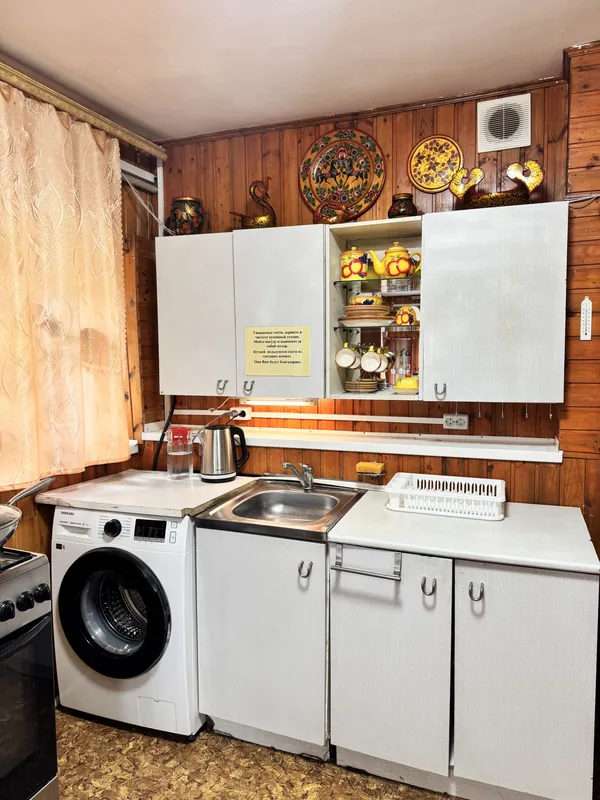
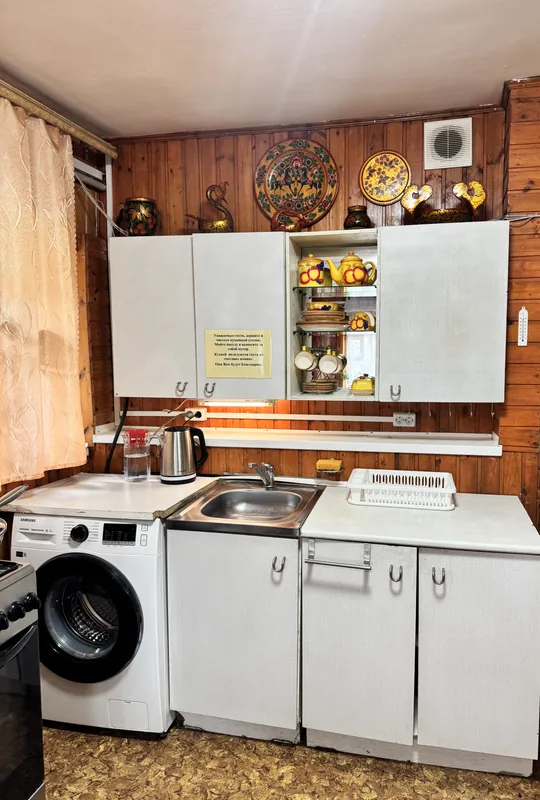
Правило отбора фото и первые правки по нему
В FOTO-SPISOK.md записано, как отбирать кадры: снимки должны выглядеть
как в объявлениях о недвижимости, а не как протокол осмотра. Разные
ракурсы, свет, самый выигрышный кадр обложкой; в кадр не лезут вёдра,
швабры, провода и таблички с правилами; неудачный угол обрезается.
Отдельно оговорено, чего не делаем: чужие интерьеры за свои не выдаём и
не скрываем того, что гость найдёт на месте.

По этому правилу:

- туалет в санузле №1 обрезан слева — ушли мусорное ведро и ёршик,
  остались унитаз, штора и плитка;
- кадр кухонной стенки заменён на более выигрышный: открытый шкаф с
  посудой и хохломские тарелки на стене, тёмный дверной проём обрезан.

Переписаны два блока, которые отговаривали гостя ехать. На странице
отзывов «мебель разного возраста, где-то видны следы эксплуатации»
заменено на то, что дом действительно даёт: место, тепло, кухню, баню и
честную цену. На странице для бригад — то же самое.

Claude-Session: https://claude.ai/code/session_0118jBCqfFCDQ8oS7aEggjZR

diff --git a/dom-1.html b/dom-1.html
@@ -155,7 +155,7 @@
       <div class="room-photos" id="d1-kuhnya-1" hidden>
         <div class="ph"><img src="assets/img/foto/dom-1/dom-1-kuhnya-1-1-800.webp" srcset="assets/img/foto/dom-1/dom-1-kuhnya-1-1-400.webp 400w, assets/img/foto/dom-1/dom-1-kuhnya-1-1-800.webp 800w, assets/img/foto/dom-1/dom-1-kuhnya-1-1-1600.webp 1600w" sizes="(max-width: 430px) 92vw, (max-width: 760px) 45vw, (max-width: 1200px) 30vw, 370px" width="5712" height="4284" alt="Дом №1 — гостиная-столовая с телевизором" loading="lazy" decoding="async"></div>
         <div class="ph"><img src="assets/img/foto/dom-1/dom-1-kuhnya-1-2-800.webp" srcset="assets/img/foto/dom-1/dom-1-kuhnya-1-2-400.webp 400w, assets/img/foto/dom-1/dom-1-kuhnya-1-2-800.webp 800w, assets/img/foto/dom-1/dom-1-kuhnya-1-2-1600.webp 1600w" sizes="(max-width: 430px) 92vw, (max-width: 760px) 45vw, (max-width: 1200px) 30vw, 370px" width="4284" height="5712" alt="Дом №1, первый этаж — обеденная зона с двумя круглыми столами" loading="lazy" decoding="async"></div>
-        <div class="ph"><img src="assets/img/foto/dom-1/dom-1-kuhnya-1-3-800.webp" srcset="assets/img/foto/dom-1/dom-1-kuhnya-1-3-400.webp 400w, assets/img/foto/dom-1/dom-1-kuhnya-1-3-800.webp 800w, assets/img/foto/dom-1/dom-1-kuhnya-1-3-1600.webp 1600w" sizes="(max-width: 430px) 92vw, (max-width: 760px) 45vw, (max-width: 1200px) 30vw, 370px" width="4284" height="5712" alt="Дом №1, кухня на первом этаже — мойка, шкафы с посудой и стиральная машина" loading="lazy" decoding="async"></div>
+        <div class="ph"><img src="assets/img/foto/dom-1/dom-1-kuhnya-1-3-800.webp" srcset="assets/img/foto/dom-1/dom-1-kuhnya-1-3-400.webp 400w, assets/img/foto/dom-1/dom-1-kuhnya-1-3-800.webp 800w, assets/img/foto/dom-1/dom-1-kuhnya-1-3-1600.webp 1600w" sizes="(max-width: 430px) 92vw, (max-width: 760px) 45vw, (max-width: 1200px) 30vw, 370px" width="3855" height="5712" alt="Дом №1, кухня на первом этаже — мойка, шкафы с посудой и стиральная машина" loading="lazy" decoding="async"></div>
         <div class="ph"><img src="assets/img/foto/dom-1/dom-1-kuhnya-1-4-800.webp" srcset="assets/img/foto/dom-1/dom-1-kuhnya-1-4-400.webp 400w, assets/img/foto/dom-1/dom-1-kuhnya-1-4-800.webp 800w, assets/img/foto/dom-1/dom-1-kuhnya-1-4-1600.webp 1600w" sizes="(max-width: 430px) 92vw, (max-width: 760px) 45vw, (max-width: 1200px) 30vw, 370px" width="4284" height="5712" alt="Дом №1, кухня на первом этаже — плита и стиральная машина" loading="lazy" decoding="async"></div>
         <div class="ph"><img src="assets/img/foto/dom-1/dom-1-kuhnya-1-5-800.webp" srcset="assets/img/foto/dom-1/dom-1-kuhnya-1-5-400.webp 400w, assets/img/foto/dom-1/dom-1-kuhnya-1-5-800.webp 800w, assets/img/foto/dom-1/dom-1-kuhnya-1-5-1600.webp 1600w" sizes="(max-width: 430px) 92vw, (max-width: 760px) 45vw, (max-width: 1200px) 30vw, 370px" width="4284" height="5712" alt="Дом №1, кухня на первом этаже — холодильник, микроволновка и мини-печь" loading="lazy" decoding="async"></div>
         <div class="ph"><img src="assets/img/foto/dom-1/dom-1-kuhnya-1-6-800.webp" srcset="assets/img/foto/dom-1/dom-1-kuhnya-1-6-400.webp 400w, assets/img/foto/dom-1/dom-1-kuhnya-1-6-800.webp 800w, assets/img/foto/dom-1/dom-1-kuhnya-1-6-1600.webp 1600w" sizes="(max-width: 430px) 92vw, (max-width: 760px) 45vw, (max-width: 1200px) 30vw, 370px" width="4284" height="5712" alt="Дом №1, кухня на первом этаже — кухонная утварь и сушилка для посуды" loading="lazy" decoding="async"></div>
@@ -164,7 +164,7 @@
         <div class="ph"><img src="assets/img/foto/dom-1/dom-1-tualet-1-1-800.webp" srcset="assets/img/foto/dom-1/dom-1-tualet-1-1-400.webp 400w, assets/img/foto/dom-1/dom-1-tualet-1-1-800.webp 800w, assets/img/foto/dom-1/dom-1-tualet-1-1-1600.webp 1600w" sizes="(max-width: 430px) 92vw, (max-width: 760px) 45vw, (max-width: 1200px) 30vw, 370px" width="4284" height="5712" alt="Дом №1, санузел №1 — две раковины и зеркала" loading="lazy" decoding="async"></div>
         <div class="ph"><img src="assets/img/foto/dom-1/dom-1-tualet-1-2-800.webp" srcset="assets/img/foto/dom-1/dom-1-tualet-1-2-400.webp 400w, assets/img/foto/dom-1/dom-1-tualet-1-2-800.webp 800w, assets/img/foto/dom-1/dom-1-tualet-1-2-1600.webp 1600w" sizes="(max-width: 430px) 92vw, (max-width: 760px) 45vw, (max-width: 1200px) 30vw, 370px" width="4284" height="5712" alt="Дом №1, санузел №1 — душевая" loading="lazy" decoding="async"></div>
         <div class="ph"><img src="assets/img/foto/dom-1/dom-1-tualet-1-3-800.webp" srcset="assets/img/foto/dom-1/dom-1-tualet-1-3-400.webp 400w, assets/img/foto/dom-1/dom-1-tualet-1-3-800.webp 800w, assets/img/foto/dom-1/dom-1-tualet-1-3-1600.webp 1600w" sizes="(max-width: 430px) 92vw, (max-width: 760px) 45vw, (max-width: 1200px) 30vw, 370px" width="4284" height="5712" alt="Дом №1, санузел №1 — умывальник у туалета" loading="lazy" decoding="async"></div>
-        <div class="ph"><img src="assets/img/foto/dom-1/dom-1-tualet-1-4-800.webp" srcset="assets/img/foto/dom-1/dom-1-tualet-1-4-400.webp 400w, assets/img/foto/dom-1/dom-1-tualet-1-4-800.webp 800w, assets/img/foto/dom-1/dom-1-tualet-1-4-1600.webp 1600w" sizes="(max-width: 430px) 92vw, (max-width: 760px) 45vw, (max-width: 1200px) 30vw, 370px" width="4284" height="5712" alt="Дом №1, санузел №1 — туалет за дверью" loading="lazy" decoding="async"></div>
+        <div class="ph"><img src="assets/img/foto/dom-1/dom-1-tualet-1-4-800.webp" srcset="assets/img/foto/dom-1/dom-1-tualet-1-4-400.webp 400w, assets/img/foto/dom-1/dom-1-tualet-1-4-800.webp 800w, assets/img/foto/dom-1/dom-1-tualet-1-4-1600.webp 1600w" sizes="(max-width: 430px) 92vw, (max-width: 760px) 45vw, (max-width: 1200px) 30vw, 370px" width="3342" height="5712" alt="Дом №1, санузел №1 — туалет за дверью" loading="lazy" decoding="async"></div>
       </div>
       <div class="room-photos" id="d1-zal" hidden>
         <div class="ph"><img src="assets/img/foto/dom-1/dom-1-kuhnya-2-3-800.webp" srcset="assets/img/foto/dom-1/dom-1-kuhnya-2-3-400.webp 400w, assets/img/foto/dom-1/dom-1-kuhnya-2-3-800.webp 800w, assets/img/foto/dom-1/dom-1-kuhnya-2-3-1600.webp 1600w" sizes="(max-width: 430px) 92vw, (max-width: 760px) 45vw, (max-width: 1200px) 30vw, 370px" width="5712" height="4284" alt="Дом №1, второй этаж — общий зал со столом на большую компанию" loading="lazy" decoding="async"></div>

diff --git a/komandirovochnym.html b/komandirovochnym.html
@@ -102,8 +102,8 @@
     </section>
 
     <div class="honest-block">
-      <h2>Честно</h2>
-      <p>Это не гостиница: дома домашние, мебель разного возраста и не в едином стиле, где-то видны следы эксплуатации. Зато есть всё для нормальной жизни бригады — кухни, душевые, стиральные машины, тепло, интернет и парковка, и цена за это честная.</p>
+      <h2>Что это за жильё</h2>
+      <p>Не гостиница и не общежитие: обычные жилые дома с домашней обстановкой. Своя кухня, где готовят когда удобно, душ без очереди, стиральные машины, тепло зимой и место, где бригада живёт неделями и не мешает друг другу. Для длительного проживания цена ниже — считаем по количеству мест и сроку.</p>
     </div>
   </div>
 

diff --git a/otzyvy.html b/otzyvy.html
@@ -89,8 +89,8 @@
     </section>
 
     <div class="honest-block">
-      <h2>Честно о том, чего ждать</h2>
-      <p>Дома домашние, а не отельные: мебель разного возраста и не в едином стиле, где-то видны следы эксплуатации, что-то мы постепенно обновляем. Зато здесь просторно, тепло, есть всё для жизни и честная цена. Мы специально пишем об этом заранее, чтобы никто не приехал с завышенными ожиданиями.</p>
+      <h2>Чего ждать</h2>
+      <p>Это домашние дома, а не отель: просторно, тепло, всё для жизни есть, а обстановка простая и уютная. Мы не обещаем дизайнерского ремонта — мы даём много места, свою кухню, баню и честную цену. Гости чаще всего отмечают именно это.</p>
     </div>
   </div>
 </main>

diff --git a/FOTO-SPISOK.md b/FOTO-SPISOK.md
@@ -21,6 +21,34 @@
 
 ---
 
+## Как отбираются фото
+
+Правило владельца, ему следовать при каждом отборе.
+
+Фотографии должны выглядеть так, как в объявлениях о недвижимости: не
+протокол осмотра, а картинка, которая цепляет. Так делают все — от
+частника до крупной сети. Некрасивой правдой гостя не привлечь: он
+просто пролистает дальше и уедет к соседям.
+
+При этом снимки **наши и настоящие** — те же комнаты, та же мебель,
+ничего не дорисовано. Работаем только отбором и кадром:
+
+- из нескольких кадров берём самый выигрышный, а не «первый попавшийся»;
+- **разные ракурсы**: от двери, от изголовья, стена напротив. Три разных
+  вида работают лучше, чем семь одинаковых;
+- ищем свет: окно в кадре, включённая люстра, светлое время суток;
+- в кадр не должны лезть ведро, швабра, провода, сушилка с бельём,
+  жёлтые таблички с правилами, личные вещи;
+- неудачный угол обрезаем: лучше показать половину комнаты красиво, чем
+  всю неаккуратно;
+- порядок в карточке: сперва самый сильный кадр, он становится обложкой.
+
+Чего не делаем: не выдаём чужие интерьеры за свои, не убираем то, что
+гость обнаружит на месте (отсутствие кондиционера, общий санузел), не
+обещаем в тексте больше, чем есть. Красиво снять своё — это реклама;
+показать не своё — обман, за который прилетает и от гостей, и по закону
+о рекламе.
+
 ## Временные кадры — заменить
 
 Стоят на сайте, чтобы место не пустовало, но выглядят хуже, чем могли бы.
